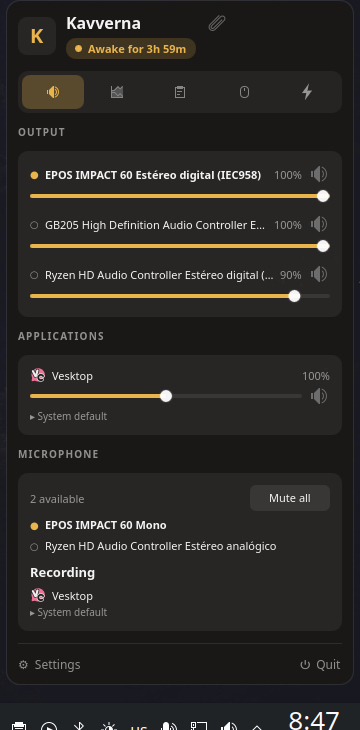
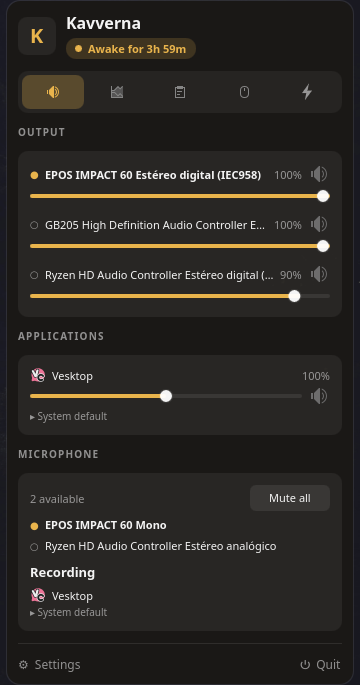
Say what 0.4.0 is, and give the shelf its seat beside the clipboard
The shelf moves into the Clipboard group, which is where it always belonged:
both are places where things wait to be put somewhere. Its opener leaves the
panel header, where a bare paperclip beside the title read as clutter, and
becomes a card at the top of the clipboard page saying how many things are
waiting. The clipboard page counts the shelf among its reasons to exist, so a
machine with everything else switched off still reaches it.

Version to 0.4.0 in the manifest, the PKGBUILD and the lock file together, and
the srcinfo regenerated, because each of these has been forgotten once before
and each forgetting cost a red release. Every screenshot is retaken from the
staged environment so no published header shows the button that no longer
exists.

diff --git a/apps/kavverna-shell/qml/MenuPanel/ClipboardSection.qml b/apps/kavverna-shell/qml/MenuPanel/ClipboardSection.qml
@@ -2,6 +2,7 @@ import QtQml
 import QtQuick
 import QtQuick.Controls
 import QtQuick.Layouts
+import org.kde.kirigami as Kirigami
 import "../Shared"
 
 ColumnLayout {
@@ -9,6 +10,7 @@ ColumnLayout {
 
     required property var theme
     required property var clipboard
+    required property var shelf
     required property var shows
 
     // Which row the keyboard is on. Reset whenever the list changes, since the row that was
@@ -55,6 +57,49 @@ ColumnLayout {
             sequence: "Ctrl+" + (index + 1)
             enabled: section.visible
             onActivated: section.choose(index)
+        }
+    }
+
+    SectionLabel {
+        theme: section.theme
+        text: "SHELF"
+        visible: section.shows("shelf")
+    }
+
+    Card {
+        theme: section.theme
+        visible: section.shows("shelf")
+
+        RowLayout {
+            Layout.fillWidth: true
+            spacing: section.theme.gap
+
+            Kirigami.Icon {
+                source: "mail-attachment"
+                implicitWidth: 18
+                implicitHeight: 18
+                isMask: true
+                color: section.shelf.item_count > 0 ? section.theme.accent
+                                                    : section.theme.secondaryText
+            }
+
+            Label {
+                Layout.fillWidth: true
+                text: section.shelf.item_count === 0
+                      ? "Nothing waiting"
+                      : section.shelf.item_count === 1
+                        ? "One thing waiting"
+                        : section.shelf.item_count + " things waiting"
+                font.pixelSize: section.theme.textBody
+                color: section.theme.secondaryText
+                elide: Text.ElideRight
+            }
+
+            PillButton {
+                theme: section.theme
+                text: section.shelf.shelf_open ? "Close" : "Open"
+                onClicked: section.shelf.set_open(!section.shelf.shelf_open)
+            }
         }
     }
 

diff --git a/apps/kavverna-shell/qml/main.qml b/apps/kavverna-shell/qml/main.qml
@@ -36,7 +36,7 @@ Window {
         ["keep-awake"],
         ["volume-mixer", "output-switcher", "microphone-tools"],
         ["system-monitor"],
-        ["clipboard-history", "clipboard-auto-clear", "clean-url", "clipboard-transform"],
+        ["clipboard-history", "clipboard-auto-clear", "clean-url", "clipboard-transform", "shelf"],
         ["mouse-jiggle"]
     ]
 
@@ -354,15 +354,6 @@ Window {
                     }
                 }
 
-                IconButton {
-                    theme: theme
-                    source: "mail-attachment"
-                    visible: root.shows("shelf")
-                    Layout.alignment: Qt.AlignTop
-                    ToolTip.visible: hovered
-                    ToolTip.text: "Shelf"
-                    onClicked: shelfBridge.set_open(!shelfBridge.shelf_open)
-                }
             }
 
             Rectangle {
@@ -488,6 +479,7 @@ Window {
                     theme: theme
                     shows: root.shows
                     clipboard: clipboard
+                    shelf: shelfBridge
                     visible: !hub.showing_settings && root.page === root.clipboardPage
                              && root.pageShown(root.clipboardPage)
                     // Choosing an entry puts it on the clipboard, so the panel gets out of the way

diff --git a/domain/feature-catalog/src/descriptor.rs b/domain/feature-catalog/src/descriptor.rs
@@ -187,7 +187,8 @@ impl Feature {
             Self::Shelf => Descriptor {
                 title: "Shelf",
                 summary: "Hold files, text and links at the screen edge until they move on.",
-                group: Group::Tools,
+                // Beside the clipboard: both are places where things wait to be put somewhere.
+                group: Group::Clipboard,
                 icon: "mail-attachment",
                 energy: EnergyProfile::Idle,
                 readiness: Readiness::Built,
